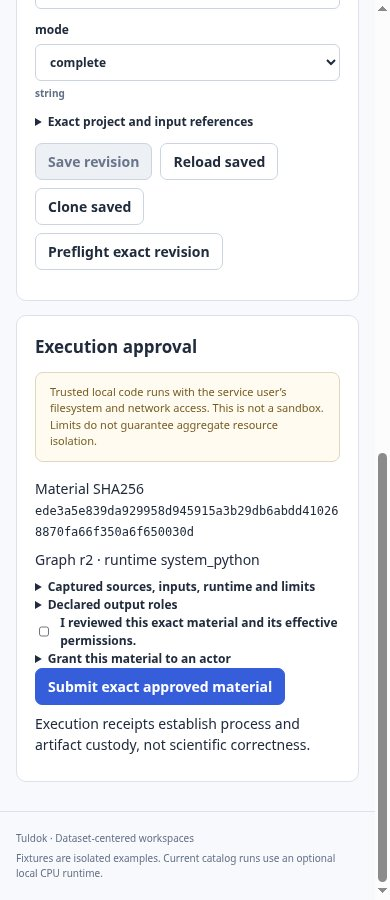
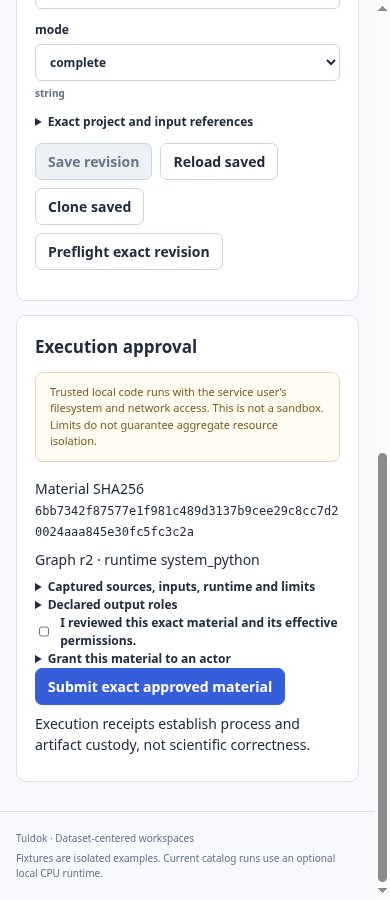
fix: bind system Python configuration to interpreter version

Changed region(s): [[0.0923, 0.56, 0.4923, 0.5911], [0.6462, 0.56, 0.8615, 0.5911], [0.5231, 0.56, 0.6154, 0.5911]]

diff --git a/tests/test_recipe_contract.py b/tests/test_recipe_contract.py
@@ -46,6 +46,37 @@ class ContractTests(unittest.TestCase):
         with self.assertRaises(WorkbenchError):
             contract.runtime_identity({'executable':'/tmp/python','trusted_install_owner_uid':__import__('os').getuid()})
 
+    def test_cold_runtime_sitecustomize_matches_verified_python_version(self):
+        recipe=definition()
+        project={'project_id':'a'*32,'manifest_sha256':'b'*64,'reference_id':'recipe',
+                 'path':'recipe.json','measured_sha256':'c'*64}
+        source_sha=recipe['sources'][0]['sha256']
+        for version in ('3.12','3.13'):
+            executable='/usr/bin/python'+version
+            configuration='/etc/python'+version+'/sitecustomize.py'
+            files={executable:{'bytes':1,'sha256':'d'*64},configuration:{'bytes':1,'sha256':'e'*64}}
+            runtime={'profile':'system_python','executable':executable,'executable_sha256':'d'*64,
+                     'trusted_install_owner_uid':0,'files':files,'closure_sha256':contract.digest(files),
+                     'assumption':contract.TRUST,'flags':['-I','-S','-B']}
+            material={'schema_version':1,'catalog_id':'catalog-fixture','project':project,
+                      'graph_execution_sha256':'f'*64,'recipe':recipe,'parameters':{'count':1},
+                      'inputs':{'sample':dict(project,reference_id='sample',path='data.bin',measured_sha256='1'*64)},
+                      'captures':{'source/main.py':{'bytes':1,'sha256':source_sha},'input/sample':{'bytes':1,'sha256':'1'*64}},
+                      'runtime':runtime,'host_files':{name:'2'*64 for name in contract.HOST_NAMES},
+                      'permissions':{'filesystem':'trusted-local','network':'not_isolated'},
+                      'environment':{'LANG':'C.UTF-8'},'resources':recipe['resources']}
+            with self.subTest(version=version), patch.object(Path,'read_bytes',side_effect=AssertionError('Cold validation read the filesystem')):
+                self.assertEqual(contract.validate_material(material),material)
+                wrong=copy.deepcopy(material)
+                wrong_path='/etc/python'+('3.13' if version=='3.12' else '3.12')+'/sitecustomize.py'
+                wrong['runtime']['files'][wrong_path]=wrong['runtime']['files'].pop(configuration)
+                wrong['runtime']['closure_sha256']=contract.digest(wrong['runtime']['files'])
+                with self.assertRaises(WorkbenchError): contract.validate_material(wrong)
+                broad=copy.deepcopy(material)
+                broad['runtime']['files']['/etc/sitecustomize.py']=broad['runtime']['files'].pop(configuration)
+                broad['runtime']['closure_sha256']=contract.digest(broad['runtime']['files'])
+                with self.assertRaises(WorkbenchError): contract.validate_material(broad)
+
     def test_output_inventory_refuses_extra_links_and_missing(self):
         with tempfile.TemporaryDirectory() as temporary:
             root=Path(temporary); outputs=definition()['outputs']

diff --git a/recipe_contract.py b/recipe_contract.py
@@ -203,7 +203,7 @@ def runtime_identity(profile=None):
     while pending:
         path = pending.pop().resolve(strict=True)
         if str(path) in files: continue
-        if not (path.is_relative_to('/usr') or path == Path('/etc/python3.13/sitecustomize.py')):
+        if not (path.is_relative_to('/usr') or path == Path('/etc') / executable.name / 'sitecustomize.py'):
             raise WorkbenchError('Runtime dependency escapes trusted installation.')
         for ancestor in (path, *path.parents):
             if ancestor == Path('/'): break
@@ -337,7 +337,7 @@ def validate_material(material):
     files = runtime['files']; total = 0
     if not isinstance(files,dict) or not 1 <= len(files) <= 10000: raise WorkbenchError('Invalid runtime closure size.')
     for path, item in files.items():
-        if not isinstance(path,str) or not (path.startswith('/usr/') or path == '/etc/python3.13/sitecustomize.py'):
+        if not isinstance(path,str) or not (path.startswith('/usr/') or path == '/etc/' + Path(runtime['executable']).name + '/sitecustomize.py'):
             raise WorkbenchError('Runtime path escapes the supported trusted installation.')
         relative_path(path[1:]); closed(item,('bytes','sha256')); sha(item['sha256'])
         bounded_int(item['bytes'],0,64*1024*1024,'Runtime file bytes'); total += item['bytes']

diff --git a/docs/plans/generic-scientific-projects/reports/p3b-verification.md b/docs/plans/generic-scientific-projects/reports/p3b-verification.md
@@ -18,7 +18,7 @@ filesystem/network authority is disclosed, not described as isolated.
 
 ## Completed evidence
 
[2 lines of base64/hex data omitted]
 
 - Access/schema/storage: 50 tests, including approval races, rollback, committed
   but unacknowledged consumption, exact schema7 and schema8 restore.
@@ -72,3 +72,16 @@ A killed custodian can leave descendants alive; the observed same-boot unknown
 fence is deliberate and cannot be dismissed with an acknowledgement. This is
 trusted-code lifecycle custody, not hostile-code confinement or aggregate
 resource enforcement.
+
+## Runtime path portability follow-up
+
+Post-publication inspection found that the system Python configuration exception
+was hard-coded to3.13. Both live and cold checks now derive the exact allowed
+`/etc/python3.N/sitecustomize.py` from the already validated interpreter name; no
+broader `/etc` access is accepted. Six focused host tests (including cold3.12/3.13
+matching and wrong-version refusal), four real HTTP tests and the complete real
+external browser pass after this change. These cold fixtures are not a claim of
+executing Python3.12 locally. Root independently reviewed the two-line runtime
+change. Hosted final-head CI reruns full regression; the176-file inventory records
+the earlier full suite, while source-files.json and browser receipts pin the
+follow-up sources.

diff --git a/docs/plans/generic-scientific-projects/reports/p3b-admission.md b/docs/plans/generic-scientific-projects/reports/p3b-admission.md
@@ -42,3 +42,5 @@ Apply adopted architecture/ownership, Python, JavaScript, security/untrusted-exe
 Implementation clarification: the system Python closure also includes the exact read-only `/etc/python3.13/sitecustomize.py` target referenced by the installed stdlib, under the same trusted installation-owner policy. `-I -S` disables automatic site imports. The admitted write set includes `tests/test_workspace_metadata.py` and `docs/contracts/workspace-storage.md` for schema8 assertions and persistence documentation. No blanket `/etc` trust or workspace-venv qualification is inferred.
 
 Final review refinements: an in-memory confirmed-admission set gates external queue dispatch, so a committed row with a lost response cannot run until explicit same-request reconciliation. The controller independently bounds helper observation even when the helper is stopped. Helper-owned canonical spec encoding is used for Unicode identities. Capture fsyncs directory entries, and cold material/spec/output validation checks approved projections before path reads. UI pending submissions retain their actor and exact request after ambiguous responses, including subsequent permission denial; late responses cannot replace newer view/session intent. Tests for these findings are part of P3b acceptance.
+
+Portability correction: the initially observed `/etc/python3.13/sitecustomize.py` is one configured-version instance. The allowed target is now derived from the verified `/usr/bin/python3.N` name, preserving an exact path for each installation. No arbitrary configuration directory or runtime path is admitted.
